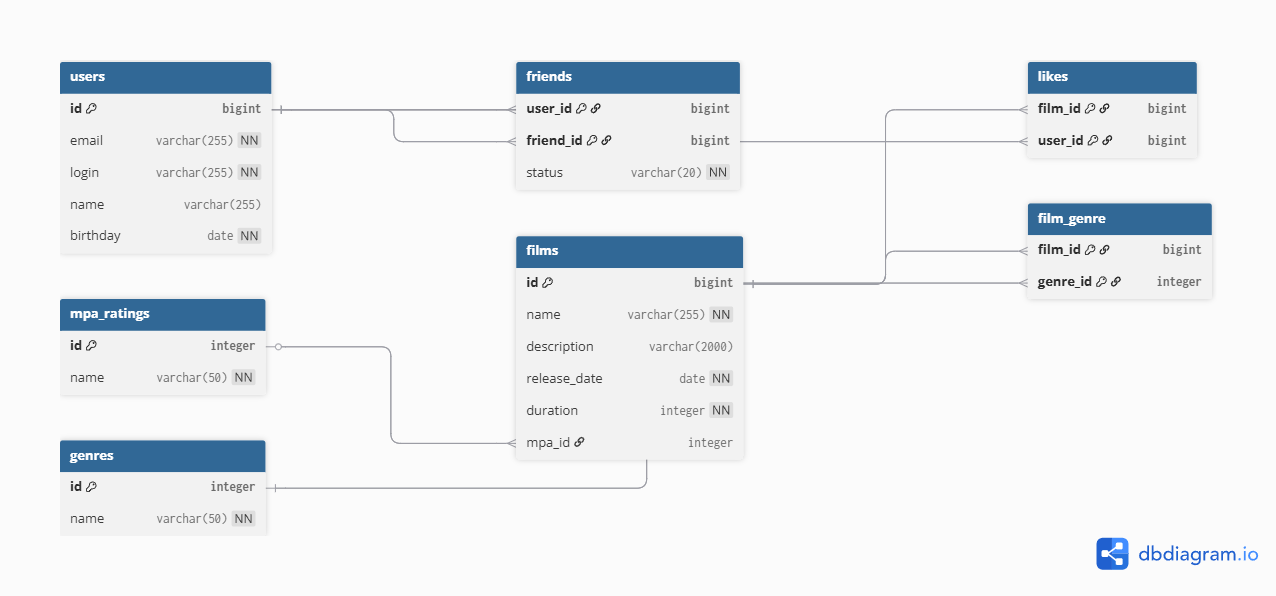
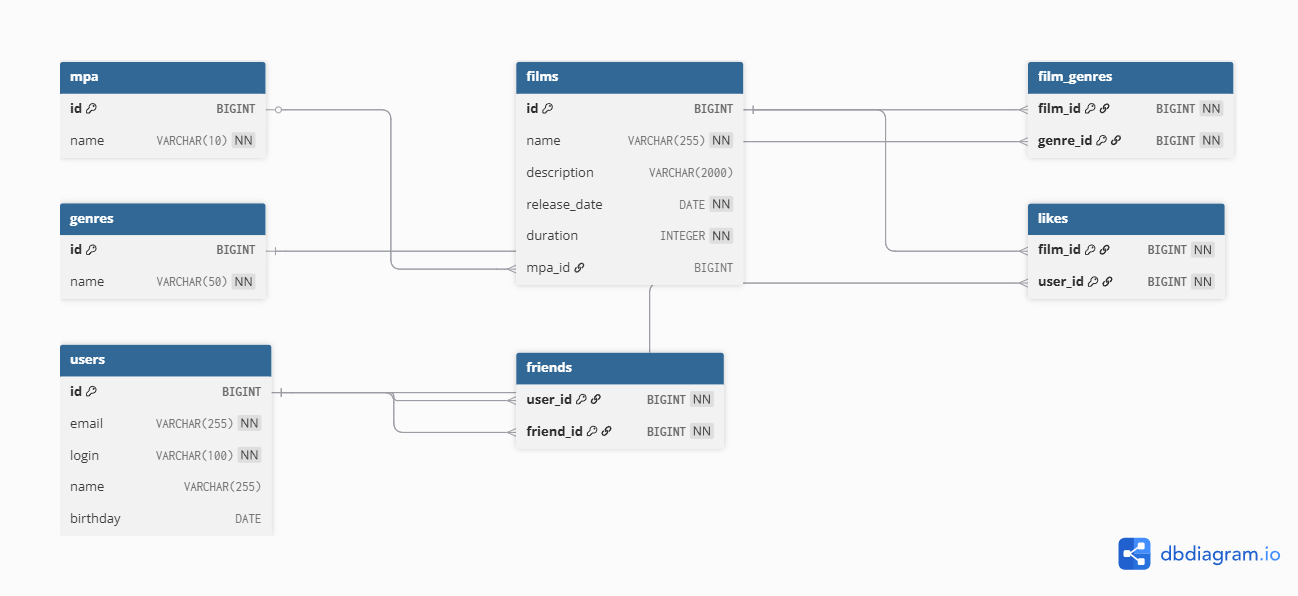
Fix: отладка тестов

diff --git a/README.md b/README.md
@@ -4,30 +4,31 @@
 ![ER-диаграмма базы данных](src/image/filmorate_er_diagram.png)
 
 ## Описание схемы
-База данных состоит из 7 таблиц, соответствующих требованиям ТЗ:
-1. **users** - информация о пользователях
-2. **films** - данные о фильмах
-3. **mpa_ratings** - рейтинги MPA (G, PG, PG-13 и т.д.)
-4. **genres** - жанры фильмов
-5. **friendships** - связи дружбы между пользователями (с подтверждением)
-6. **film_genres** - связь фильмов с жанрами
-7. **likes** - лайки пользователей
+База данных состоит из 7 таблиц, соответствующих требованиям технического задания:
 
-Схема соответствует 3НФ:
-- Все атрибуты атомарны
-- Нет частичных зависимостей
-- Нет транзитивных зависимостей
+1. **users** - информация о пользователях (email, login, name, birthday).
+2. **films** - данные о фильмах (name, description, release_date, duration, mpa_id).
+3. **mpa** - рейтинги MPA (например, G, PG, PG-13 и т.д.).
+4. **genres** - жанры фильмов.
+5. **friends** - связи дружбы между пользователями.
+6. **film_genres** - связь фильмов с жанрами (многие-ко-многим).
+7. **likes** - лайки пользователей для фильмов (многие-ко-многим).
+
+Схема соответствует третьей нормальной форме (3НФ):
+- Все атрибуты атомарны.
+- Отсутствуют частичные зависимости.
+- Отсутствуют транзитивные зависимости.
 
 ## Основные бизнес-сценарии
-1. **Дружба с подтверждением**: 
-   - Пользователь A отправляет запрос → статус "pending"
-   - Пользователь B подтверждает → статус "approved"
-2. **Множественные жанры**: Один фильм может относиться к нескольким жанрам
-3. **Рейтинги MPA**: Фильмы имеют возрастные ограничения
-4. **Лайки**: Пользователи могут ставить лайки фильмам
+1. **Дружба**:
+   - Пользователь A добавляет пользователя B в друзья (запись в таблице `friends`).
+   - Поддерживается двунаправленная связь (A → B и B → A).
+2. **Множественные жанры**: Один фильм может относиться к нескольким жанрам через таблицу `film_genres`.
+3. **Рейтинги MPA**: Каждый фильм связан с одним рейтингом MPA через `mpa_id` в таблице `films`.
+4. **Лайки**: Пользователи могут ставить лайки фильмам, что фиксируется в таблице `likes`.
 
 ## Примеры запросов
-Полные примеры SQL-запросов для основных операций доступны в [example_queries.sql](src/main/resources/example_queries.sql)
+Полные примеры SQL-запросов для основных операций доступны в [example_queries.sql](src/main/resources/example_queries.sql).
 
 ### Ключевые запросы:
 ```sql
@@ -35,19 +36,18 @@
 SELECT f.id, f.name, COUNT(l.user_id) AS likes
 FROM films f
 LEFT JOIN likes l ON f.id = l.film_id
-GROUP BY f.id
+GROUP BY f.id, f.name
 ORDER BY likes DESC
 LIMIT 5;
 
--- Неподтвержденные заявки в друзья
-SELECT u.login, f.created_at 
-FROM friendships f
+-- Друзья пользователя
+SELECT u.login, u.name
+FROM friends f
 JOIN users u ON f.friend_id = u.id
-WHERE f.user_id = 1
-AND f.status = 'pending';
+WHERE f.user_id = 1;
 
 -- Фильмы с рейтингом PG-13
 SELECT f.name, m.name AS mpa
 FROM films f
-JOIN mpa_ratings m ON f.mpa_id = m.id
+JOIN mpa m ON f.mpa_id = m.id
 WHERE m.name = 'PG-13';
